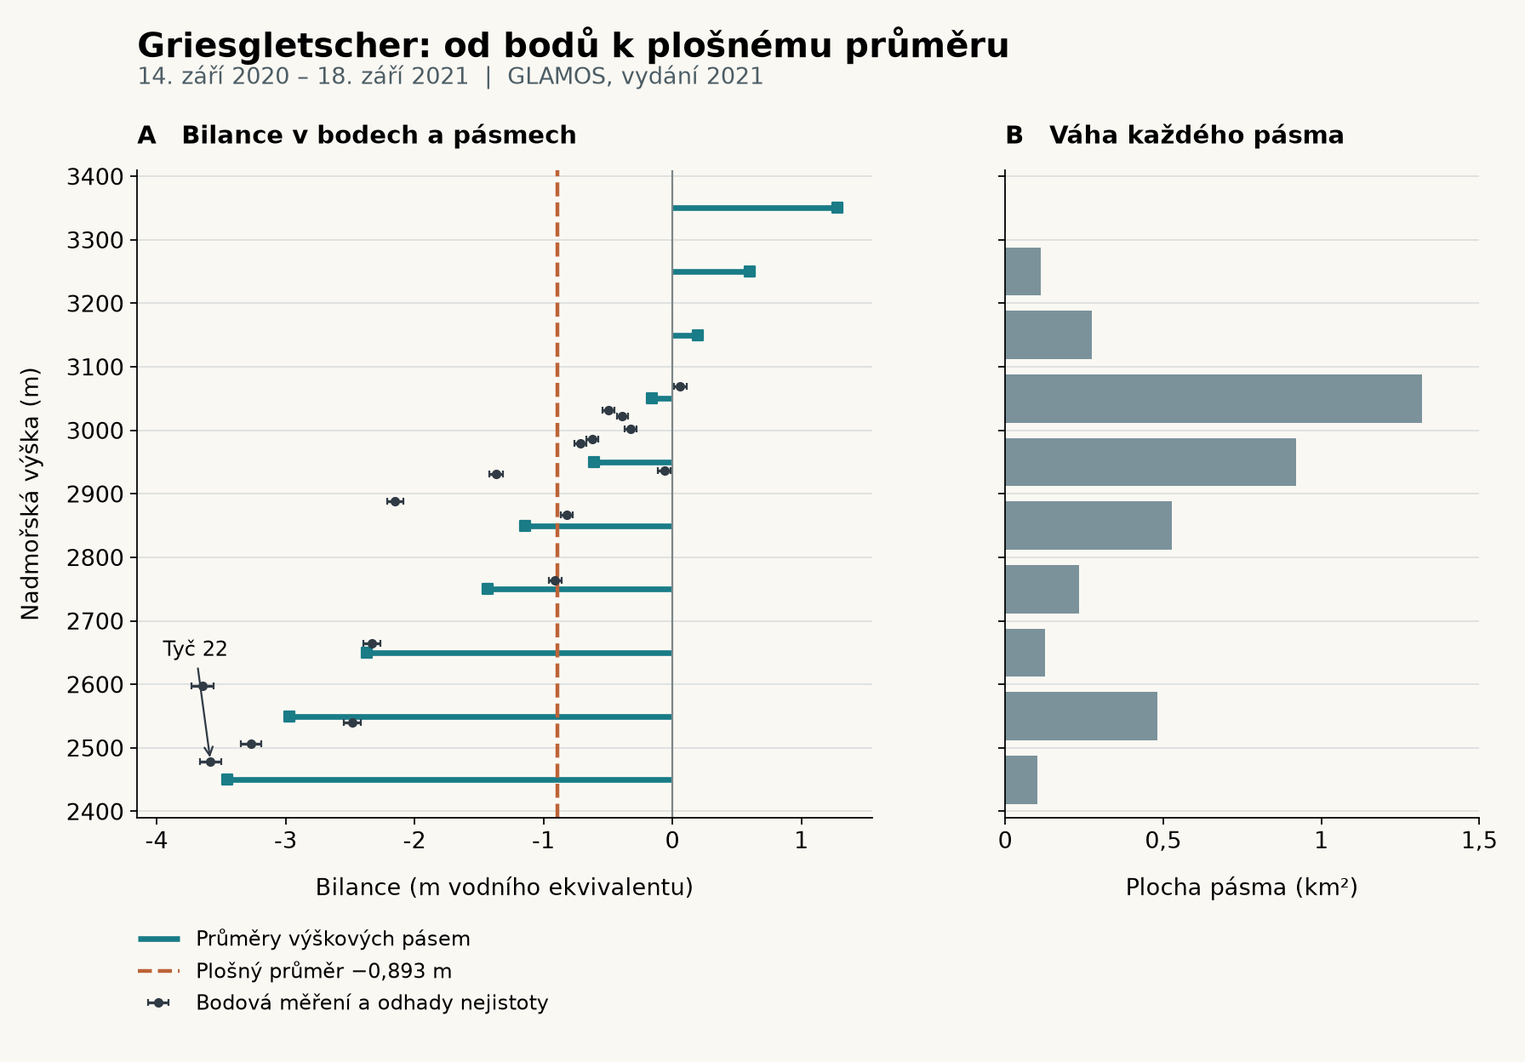
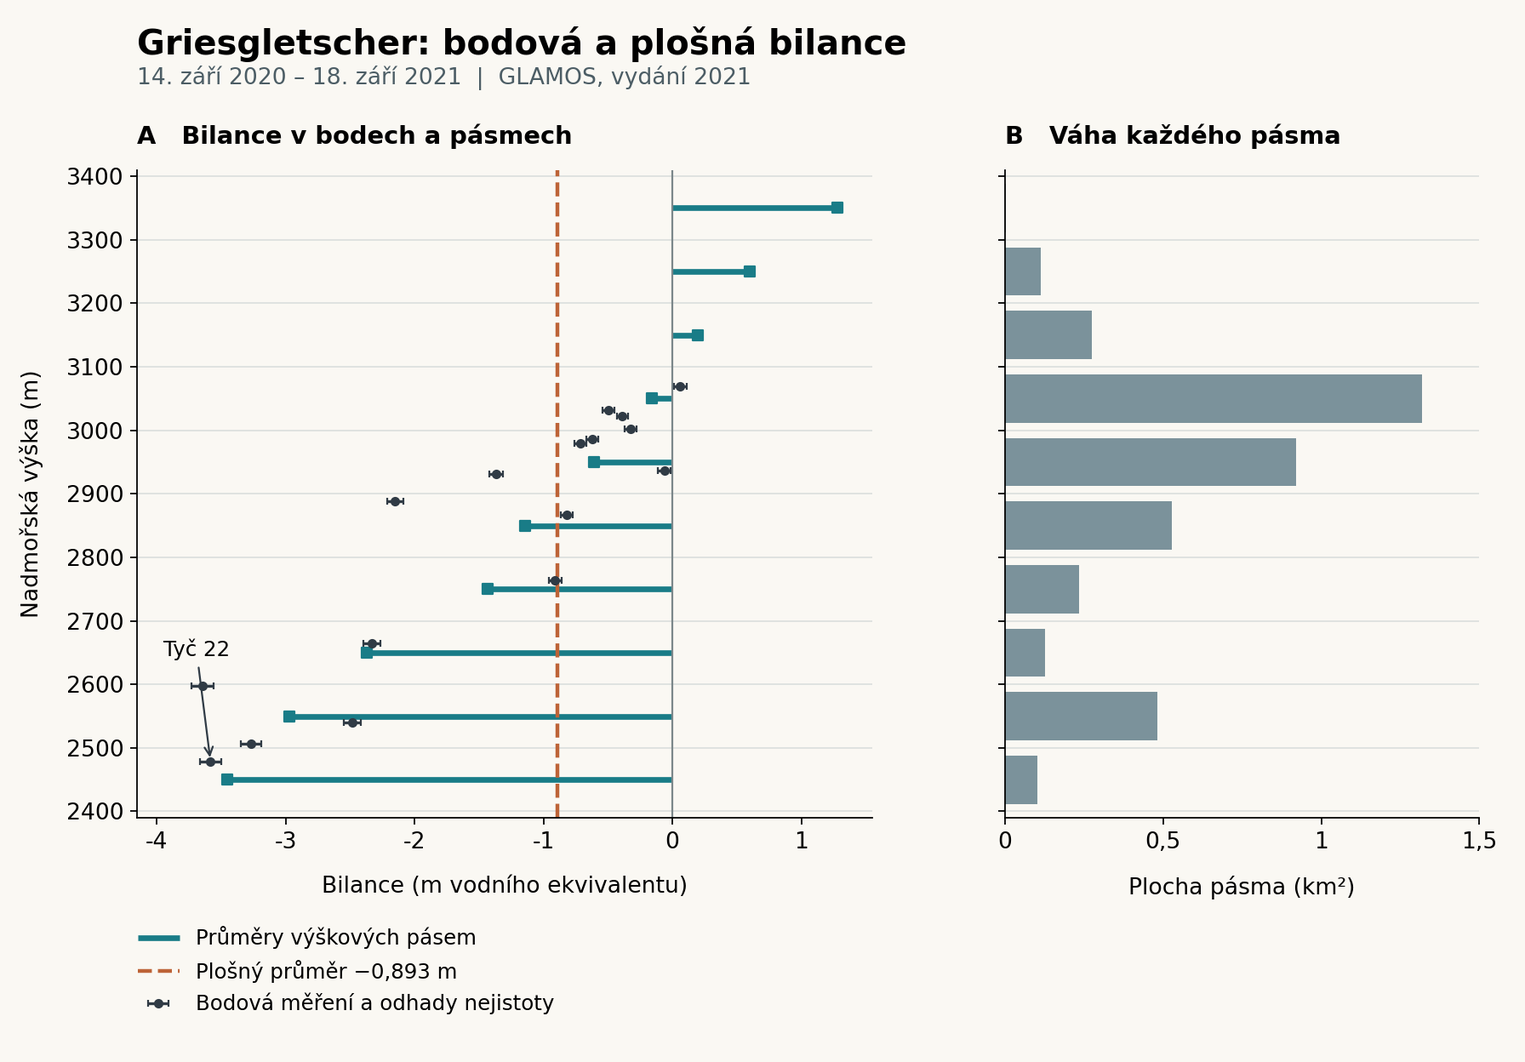
Clarify glacier mass balance measurements and area averaging

diff --git a/app/components/GlacierBalanceArticle.tsx b/app/components/GlacierBalanceArticle.tsx
@@ -24,10 +24,11 @@ export function GlacierBalanceArticle() {
       <div className="article-prose">
         <h2>Kolik sněhu a ledu přibylo nebo ubylo</h2>
         <p className="article-prose__intro">
-          Terénní měření bilance ledovce zjišťuje přírůstky a úbytky sněhu a ledu pomocí tyčí zavrtaných
-          do ledovce, sněhových sond a odběrů pro měření hustoty. Z tloušťky a hustoty přidané nebo ztracené
-          vrstvy vypočítáme změnu hmotnosti na jednotku plochy. Síť těchto bodů pak slouží k odhadu
-          bilance povrchu celého ledovce.
+          Terénní měření bilance ledovce zjišťuje, kolik sněhu a ledu na jeho povrchu za určenou dobu
+          přibylo nebo ubylo. Tyče zavrtané do ledovce a sněhové sondy poskytují údaje o tloušťce vrstev.
+          Hustota říká, jaká hmotnost připadá na jejich objem. Spojením tloušťky a hustoty proto
+          vypočítáme změnu hmotnosti na jednotku plochy. Nejprve získáme výsledek pro jednotlivá
+          místa, teprve síť rozmístěných měření slouží k odhadu bilance povrchu celého ledovce.
         </p>
         <p>
           Přírůstek hmotnosti se nazývá <strong>akumulace</strong>, úbytek <strong>ablace</strong>.
@@ -51,13 +52,16 @@ export function GlacierBalanceArticle() {
           zůstane pevně v ledu, horní vyčnívá nad povrch. Při návštěvě změříme vzdálenost od stejné značky
           na tyči k okolnímu povrchu. Když led odtaje, odkrytá část tyče se prodlouží. Odečet opakujeme
           na více stranách, aby drobná prohlubeň přímo u tyče nezastupovala celé okolí.
-          Uložíme také označení bodu, datum, polohu a druh povrchu.
+          Rozdíl mezi návštěvami tak nejprve vyjadřuje změnu tloušťky ledu u tyče. Hmotnost ztraceného
+          ledu nad jednotkou plochy z něj určíme až se znalostí hustoty. Uložíme také označení bodu,
+          datum, polohu a druh povrchu.
         </p>
         <p>
           <SourceLink id="WEB_World_Glacier_Monitoring_Ser_WMO_2024_a75c9125">Příručka Světové meteorologické organizace
           (WMO, 2024), oddíl 3.8</SourceLink>, popisuje například hliníkové tyče dlouhé 4–6 m,
           plastové trubky a spojované bambusové díly. Použitelný rozsah odečtu omezuje délka pevně
           ukotvené tyče. Při velkém tání se musí tyč včas znovu zavrtat a starý odečet propojit s novým.
+          Jinak by změna délky vyčnívající části zahrnovala i posunutí tyče při zavrtávání.
           Pro místa s úbytkem 8–12 m ledu za sezonu příručka uvádí i ocelové dráty v hlubších vrtech.
           Tyto rozměry popisují konkrétní uspořádání, nikoli jediný předepsaný přístroj.
         </p>
@@ -89,24 +93,36 @@ export function GlacierBalanceArticle() {
 
         <h2>Sníh potřebuje rozhraní a hustotu</h2>
         <p>
-          Na konci zimy se sondou měří sníh nad loňským letním povrchem. Ve spodní části ledovce
-          jím bývá tvrdý led. Výše může ležet <strong>firn</strong>, tedy starší sníh, který přečkal sezonu
+          Na konci zimy chceme zjistit, kolik sněhu přibylo během zimy. Sondou proto měříme sníh
+          nad loňským letním povrchem, který odděluje tento přírůstek od staršího materiálu. Ve spodní
+          části ledovce jím bývá tvrdý led. Výše může ležet <strong>firn</strong>, tedy starší sníh, který přečkal sezonu
           tání. Sonda musí rozpoznat právě loňské rozhraní. Ledová krusta uvnitř letošního sněhu ji může
-          zastavit příliš brzy. Sněhová jáma nebo odvrtané jádro umožní vrstvy prohlédnout a správné
-          rozhraní zkontrolovat. Tento postup popisuje
+          zastavit příliš brzy, a naměřený přírůstek by pak vyšel menší. Sněhová jáma nebo odvrtané jádro
+          umožní vrstvy prohlédnout a správné rozhraní zkontrolovat. Tento postup popisuje
           <SourceLink id="WEB_World_Glacier_Monitoring_Ser_WMO_2024_a75c9125"> WMO (2024), oddíl 3.7</SourceLink>.
         </p>
         <p>
-          Zvážení známého objemu v jednotlivých vrstvách určí hustotu. Součet součinů hustoty a tloušťky
-          dá hmotnost sněhu nad metrem čtverečním. Na konci léta se stejným principem zjišťuje, kolik
-          letošního sněhu zůstalo. Samotné zkrácení sněhového sloupce vůči tyči by zaměnilo odtátí se
-          sesedáním sněhu. Tyč se navíc může do firnu propadat. Proto musí odečty doprovázet informace
+          V jednotlivých vrstvách odebereme a zvážíme známý objem sněhu. Hmotnost vydělená objemem
+          dává hustotu. Tu u každé vrstvy násobíme její tloušťkou a získáme hmotnost sněhu nad
+          jednotkou plochy. Sečtením příspěvků vrstev určíme hmotnost celého sněhového sloupce nad
+          metrem čtverečním. Na konci léta se stejným principem zjišťuje, kolik letošního sněhu zůstalo.
+          Sníh při sesedání zmenšuje svůj objem, takže sloupec může klesnout i bez úbytku hmotnosti.
+          Samotné zkrácení vůči tyči by tuto změnu nerozlišilo od odtátí. Tyč se navíc může do firnu
+          propadat, a změnit tak polohu značky, od které měříme. Proto musí odečty doprovázet informace
           o hustotě, ukotvení a sledovaném rozhraní.
           <SourceLink id="DOI_10_5194_essd_14_3293_2022"> Geibel et al. (2022), oddíl 2.3</SourceLink>
         </p>
         <p>
-          Na holém ledu lze při svislé, pevně ukotvené tyči a známé hustotě ρ<sub>i</sub> převést rozdíl odečtů přímo.
-          Označíme-li odkrytou délku tyče při první návštěvě l<sub>1</sub> a při druhé l<sub>2</sub>, platí:
+          Pro společné vyjádření změn sněhu a ledu používáme <strong>vodní ekvivalent</strong>.
+          Jde o výšku vodní vrstvy, která má nad stejnou plochou stejnou hmotnost jako přidaný nebo
+          ztracený materiál. Rozdílně hustý sníh a led tak můžeme porovnávat podle hmotnosti.
+        </p>
+        <p>
+          Na holém ledu známe při svislé, pevně ukotvené tyči rozdíl jejích odkrytých délek.
+          Od délky při druhé návštěvě l<sub>2</sub> odečteme délku při první návštěvě l<sub>1</sub>.
+          Kladný rozdíl znamená, že se tyč více odkryla a led ubyl. Pro zápis úbytku proto obrátíme
+          znaménko. Pokud známe hustotu ledu ρ<sub>i</sub>, násobením získáme změnu hmotnosti nad
+          jednotkou plochy. Dělením hustotou vody ji převedeme na vodní ekvivalent:
         </p>
         <div className="article-formula method-equation"><p>b = −(l<sub>2</sub> − l<sub>1</sub>) ρ<sub>i</sub> / ρ<sub>w</sub></p></div>
         <p>
@@ -123,26 +139,37 @@ export function GlacierBalanceArticle() {
         <p>
           Jarní a podzimní návštěva málokdy přesně zachytí okamžik největší a nejmenší zásoby sněhu.
           Bilance za skutečná data návštěv proto může být jiná než bilance za pevně určený hydrologický
-          rok. Ve švýcarských přehledech trvá tento rok od 1. října do 30. září. Přepočet na pevná data
-          vyžaduje odhad sněžení a tání mezi návštěvou a hranicí období. Datový soubor
+          rok, tedy rok s předem stanoveným začátkem a koncem pro sledování tohoto cyklu.
+          Ve švýcarských přehledech trvá tento rok od 1. října do 30. září. Přepočet na pevná data
+          vyžaduje odhad sněžení a tání mezi návštěvou a hranicí období. K naměřené změně se tak
+          připojí odhad za dobu, kterou návštěvy přímo neohraničují. Datový soubor
           <SourceLink id="DOI_10_18750_massbalance_2021_r2021"> GLAMOS (2021)</SourceLink>{" "}
           zveřejňuje obě varianty odděleně. V našem příkladu zůstaneme u skutečných termínů návštěv.
         </p>
         <p>
           Body mají zastupovat různé nadmořské výšky, orientace svahů a podmínky ukládání sněhu.
           Měření pouze podél snadno průchodného středu ledovce nemusí zachytit závěje nebo lavinový
-          sníh u okrajů. U profilového postupu se z bodů odhadne bilance jednotlivých výškových pásem.
-          Plochy pásem získáme z obrysu ledovce a mapy výšek. Příručka
+          sníh u okrajů. U profilového postupu rozdělíme povrch ledovce podle nadmořské výšky na pásma.
+          Z bodových měření pak odhadneme průměrnou bilanci každého pásma. Plochy pásem získáme
+          z obrysu ledovce a mapy výšek. Příručka
           <SourceLink id="WEB_World_Glacier_Monitoring_Ser_WMO_2024_a75c9125"> WMO (2024), oddíl 3.9</SourceLink>,
           popisuje i mapování linií stejné bilance a prostorové modely.
         </p>
         <p>
           Švýcarský postup popsaný <SourceLink id="DOI_10_3189_2015jog15j015">Hussem et al. (2015)</SourceLink>{" "}
-          používá denní model hromadění sněhu a tání. Spojuje bodová měření s teplotou, srážkami,
-          výškou terénu a rozdíly slunečního ozáření. Parametry se upravují podle dostupných terénních
-          pozorování každého roku. Tím vzniknou hodnoty i mezi tyčemi a nad nejvyšším měřeným bodem.
+          používá denní model hromadění sněhu a tání, tedy výpočetní popis těchto změn. Spojuje bodová
+          měření s teplotou, srážkami, výškou terénu a rozdíly slunečního ozáření. Parametry, které řídí
+          vypočtené hromadění sněhu a tání, se upravují podle dostupných terénních pozorování každého roku.
+          Model potom odhadne hodnoty i mezi tyčemi a nad nejvyšším měřeným bodem. Výsledky pro tato
+          místa proto zahrnují předpoklady výpočtu a meteorologické vstupy.
           Pokud v některém roce měření chybí, doplněný průběh už závisí na meteorologických vstupech
           a dříve nastaveném modelu. Takový rok musí být rozpoznatelný v dokumentaci.
+        </p>
+        <p>
+          Z bilancí pásem nyní chceme získat průměr pro celý povrch ledovce. Každou bilanci násobíme
+          plochou příslušného pásma. Součin vyjadřuje jeho celkový příspěvek ke změně hmotnosti ve
+          vodním ekvivalentu. Příspěvky sečteme a vydělíme celkovou plochou, abychom výsledek opět
+          vyjádřili na jednotku plochy:
         </p>
         <div className="article-formula method-equation"><p>B = Σ (A<sub>j</sub> b<sub>j</sub>) / Σ A<sub>j</sub></p></div>
         <p>
@@ -170,19 +197,27 @@ export function GlacierBalanceArticle() {
           a použití hustoty ledu. Zde již máme rozdíl odečtů. Původní dvě délky odkryté tyče ani
           terénní zápisník nejsou součástí tohoto souboru.
         </p>
+        <p>
+          Chceme určit, jaké hmotnostní ztrátě tento úbytek odpovídá. Změnu tloušťky převedeme
+          z centimetrů na metry, tedy na −3,98 m. Násobíme ji uvedenou hustotou ledu a získanou
+          změnu hmotnosti na jednotku plochy vydělíme referenční hustotou vody 1 000 kg/m³:
+        </p>
         <div className="article-formula method-equation"><p>−3,98 m × 900 / 1 000 = −3,582 m vodního ekvivalentu</p></div>
         <p>
           Výsledek je <strong>−3 582 mm vodního ekvivalentu</strong>, tedy úbytek 3 582 kg na metr čtvereční
           v tomto bodě za uvedené období. Shoduje se s publikovaným sloupcem <code>mb_we</code>.
           Předpokládá správně určený úbytek ledu, stabilní ukotvení a přiměřený odhad jeho hustoty.
           V datovém souboru je změna tloušťky zapsána v celých centimetrech a bilance v celých milimetrech
-          vody. Tento krok zápisu čísel neurčuje nejistotu měření.
+          vody. Takový zápis říká, jak jemně jsou hodnoty uvedené. Nevyčísluje však nejistotu odečtu
+          ani použité hustoty.
         </p>
         <p>
           Pro stejnou tyč jsou zveřejněné příspěvky nejistoty odečtu <strong>45 mm</strong> a hustoty
           <strong> 71 mm</strong> vodního ekvivalentu. Celkový odhad je <strong>84 mm</strong>, přibližně
-          2,3 % velikosti úbytku. Součet příspěvků přes odmocninu součtu čtverců dává přibližně stejnou
-          hodnotu. Odhady přebíráme z vydání 2021. Nevydáváme je za nezávisle ověřenou nejistotu této
+          2,3 % velikosti úbytku. Oba příspěvky jsou již vyjádřené v milimetrech vodního ekvivalentu,
+          takže popisují vliv odečtu a hustoty na tutéž výslednou veličinu. Když je umocníme na druhou,
+          sečteme a součet odmocníme, dostaneme přibližně stejnou hodnotu jako zveřejněný celkový odhad.
+          Odhady přebíráme z vydání 2021. Nevydáváme je za nezávisle ověřenou nejistotu této
           tyče ani za interval s uvedenou pravděpodobností pokrytí. Metodický článek
           <SourceLink id="DOI_10_5194_essd_14_3293_2022"> Geibel et al. (2022), oddíl 3.3</SourceLink>,
           vysvětluje přiřazování příspěvků podle druhu měření a jeho dokumentace. Jeho pozdější tabulku
@@ -197,6 +232,13 @@ export function GlacierBalanceArticle() {
           Samostatně ověříme poslední krok, tedy převod pásem na plošný průměr. Pro stejné období
           zobrazíme také všech 16 bodových měření. Vybraná tyč 22 leží v dolní části ledovce a její
           silný úbytek nemůže zastupovat výše položené plochy.
+        </p>
+        <p>
+          První řádek tabulky popisuje část ledovce mezi 2 400 a 2 500 m nad mořem. Má plochu
+          0,10312 km² a odhadovanou průměrnou bilanci −3,449 m vodního ekvivalentu. Záporná hodnota
+          znamená úbytek hmotnosti v tomto pásmu za zvolené období. Při výpočtu pro celý ledovec
+          ji násobíme uvedenou plochou. Stejným způsobem zpracujeme ostatní řádky, z nichž každý
+          zastupuje jiné výškové pásmo.
         </p>
         <div className="method-data-output method-data-output--compact">
           <div className="method-data-output__table-wrap" role="region" aria-label="Bilance a plochy výškových pásem Griesgletscheru" tabIndex={0}>
@@ -213,13 +255,16 @@ export function GlacierBalanceArticle() {
           Součet ploch pásem je <strong>{number(example.result.areaKm2, 5)} km²</strong>.
           Sečtení součinů ploch a bilancí a vydělení celkovou plochou dává
           <strong> −0,893 m vodního ekvivalentu</strong> po zaokrouhlení.
-          Prostý průměr deseti bilancí by vyšel −1,005 m. Přisoudil by totiž stejnou váhu pásmu
+          Výsledek vyjadřuje průměrnou ztrátu hmotnosti na jednotku plochy celého sledovaného povrchu.
+          Neříká, že v každém místě odtála stejně silná vrstva. Prostý průměr deseti bilancí by vyšel
+          −1,005 m. Přisoudil by totiž stejnou váhu pásmu
           o ploše 1,32 km² i vrcholovému pásmu o ploše 0,0025 km².
         </p>
         <p>
           V souhrnné tabulce GLAMOS je zveřejněno −0,892 m a plocha 4,10187 km².
           Výpočet z pásem se tedy liší o necelý 1 mm vody a součet ploch o 10 m².
-          Zveřejněná přesnost vstupních čísel omezuje přesnou shodu obou tabulek.
+          Zaokrouhlené plochy a bilance pásem už neobsahují všechny číslice použitých mezivýsledků.
+          Zveřejněná přesnost vstupních čísel proto omezuje přesnou shodu obou tabulek.
           Bez nezaokrouhlených mezivýsledků nelze původ rozdílu úplně rozložit.
           Skript oba výsledky zachovává a nic nedorovnává. Z pásem také vychází úbytek přibližně
           <strong> 3,66 milionu m³ vodního ekvivalentu</strong>. Tento objem vody vyjadřuje hmotnostní
@@ -236,6 +281,8 @@ export function GlacierBalanceArticle() {
             intervalu, nikoli do místa odečtu. Oranžová přerušovaná čára značí náš plošný průměr.
             Vpravo jsou plochy, kterými se jednotlivá pásma váží. Nejvyšší pásmo je ledem obsazené
             jen po 3 320 m. Graf názorně odděluje bodová měření od odhadu pro celou plochu.
+            Při čtení proto porovnávejte bilanci v levém panelu s plochou stejného pásma vpravo.
+            Pásmo s největším úbytkem tak nemusí nejvíce přispívat k celkové ztrátě.
             Vlastní výpočet a graf z dat
             <SourceLink id="DOI_10_18750_massbalance_point_2021_r2021"> GLAMOS, body (2021)</SourceLink> a
             <SourceLink id="DOI_10_18750_massbalance_2021_r2021"> GLAMOS, pásma (2021)</SourceLink>.
@@ -274,7 +321,8 @@ export function GlacierBalanceArticle() {
         <p>
           Délková stupnice, váha a objem odběráku potřebují vlastní metrologickou kontrolu.
           Kalibrace určí vztah mezi údajem přístroje a referenční hodnotou včetně nejistot.
-          U pásma je referencí známá délka, u váhy závaží s doloženou návazností na jednotku hmotnosti.
+          U měřicího pásma je referencí známá délka, u váhy závaží s doloženou návazností na jednotku
+          hmotnosti. Tuto návaznost zajišťují kalibrace, které propojují místní referenci s jednotkou.
           Změna odezvy váhy při seřízení je jiný úkon. Toto rozlišení stanovuje
           <SourceLink id="2012_VIM_Calibration"> mezinárodní metrologický slovník VIM</SourceLink>.
           Kontrola známé délky nebo závaží před sezonou a po ní pomůže zjistit změnu přístroje.
@@ -289,11 +337,14 @@ export function GlacierBalanceArticle() {
           pro tyto situace zveřejňují kódy kvality, aby šel původ údaje zpětně posoudit.
         </p>
         <p>
-          Jinou kontrolu poskytuje <strong>geodetická bilance</strong>. Ze dvou map výšky povrchu
-          se získá změna objemu a pomocí odhadu hustoty změna hmotnosti. Měření výšky z leteckých
-          nebo družicových snímků má jiné chyby než odečet tyče. Před porovnáním je nutné sjednotit
-          období a plochu a posoudit změny uvnitř ledovce a u podloží. Rozdíl obou metod pak může
+          Jinou kontrolu poskytuje <strong>geodetická bilance</strong>. Dvě mapy výšky povrchu
+          ukazují, kde a o kolik se povrch mezi měřeními zvýšil nebo snížil. Spojením těchto rozdílů
+          s příslušnými plochami se získá změna objemu a pomocí odhadu hustoty změna hmotnosti.
+          Měření výšky z leteckých nebo družicových snímků má jiné chyby než odečet tyče.
+          Před porovnáním je nutné sjednotit období a plochu a posoudit změny uvnitř ledovce a u podloží.
+          Rozdíl obou metod pak může
           odhalit soustavnou chybu v rozmístění bodů nebo doplnění neměřených částí.
+          Dobře odečtené tyče totiž ještě nezaručují, že odhad správně zastoupil i zbytek ledovce.
         </p>
         <p>
           Konkrétní test provedli <SourceLink id="DOI_10_5194_tc_7_1227_2013">Zemp et al. (2013)</SourceLink>{" "}
@@ -328,12 +379,14 @@ export function GlacierBalanceArticle() {
           neposkytuje úplnou nejistotu průměru ani informaci, jak spolu chyby jednotlivých pásem
           souvisejí. Proto k výsledku −0,893 m nepřidáváme vlastní interval. Chyba společného odhadu
           hustoty nebo chybějícího sněhu ve vyšších polohách se nezmenší jako náhodný rozptyl
-          nezávislých měření. Rozdíl necelého milimetru mezi naším součtem a tabulkou GLAMOS je kontrola
+          nezávislých měření. Může ovlivnit více pásem současně, takže pouhé zvýšení počtu zahrnutých
+          hodnot ji neodstraní. Rozdíl necelého milimetru mezi naším součtem a tabulkou GLAMOS je kontrola
           výpočtu, nikoli nejistota bilance ledovce.
         </p>
         <p>
           Obtížně přístupné strmé části, suť a lavinové nánosy snižují reprezentativnost dostupné sítě.
           Při velmi silném tání mohou vypadnout právě tyče v místech největšího úbytku.
+          Zbývající odečty pak mohou tuto část ztráty nedostatečně zastoupit.
           Na ledovci končícím ve vodě je navíc třeba samostatně určit odlamování a podvodní tání čela.
           Terénní bilance povrchu také sama nepostihne veškeré zamrzání a tání uvnitř ledovce a u podloží.
           Tyto hranice metody vymezují

diff --git a/public/data/methods/glacier-balance/plot.py b/public/data/methods/glacier-balance/plot.py
@@ -42,7 +42,7 @@ right.set_xlim(0,1.5)
 right.set_xticks([0,.5,1,1.5])
 right.set_xlabel('Plocha pásma (km²)',labelpad=12)
 right.set_title('B   Váha každého pásma',loc='left',fontsize=13,pad=14,weight='bold')
-fig.suptitle('Griesgletscher: od bodů k plošnému průměru',x=.09,ha='left',fontsize=18,weight='bold',y=.975)
+fig.suptitle('Griesgletscher: bodová a plošná bilance',x=.09,ha='left',fontsize=18,weight='bold',y=.975)
 fig.text(.09,.921,'14. září 2020 – 18. září 2021  |  GLAMOS, vydání 2021',fontsize=12,color='#4c5d65')
 handles,labels=left.get_legend_handles_labels()
 fig.legend(handles,labels,loc='lower left',bbox_to_anchor=(.078,.027),frameon=False,fontsize=11,ncol=1)
